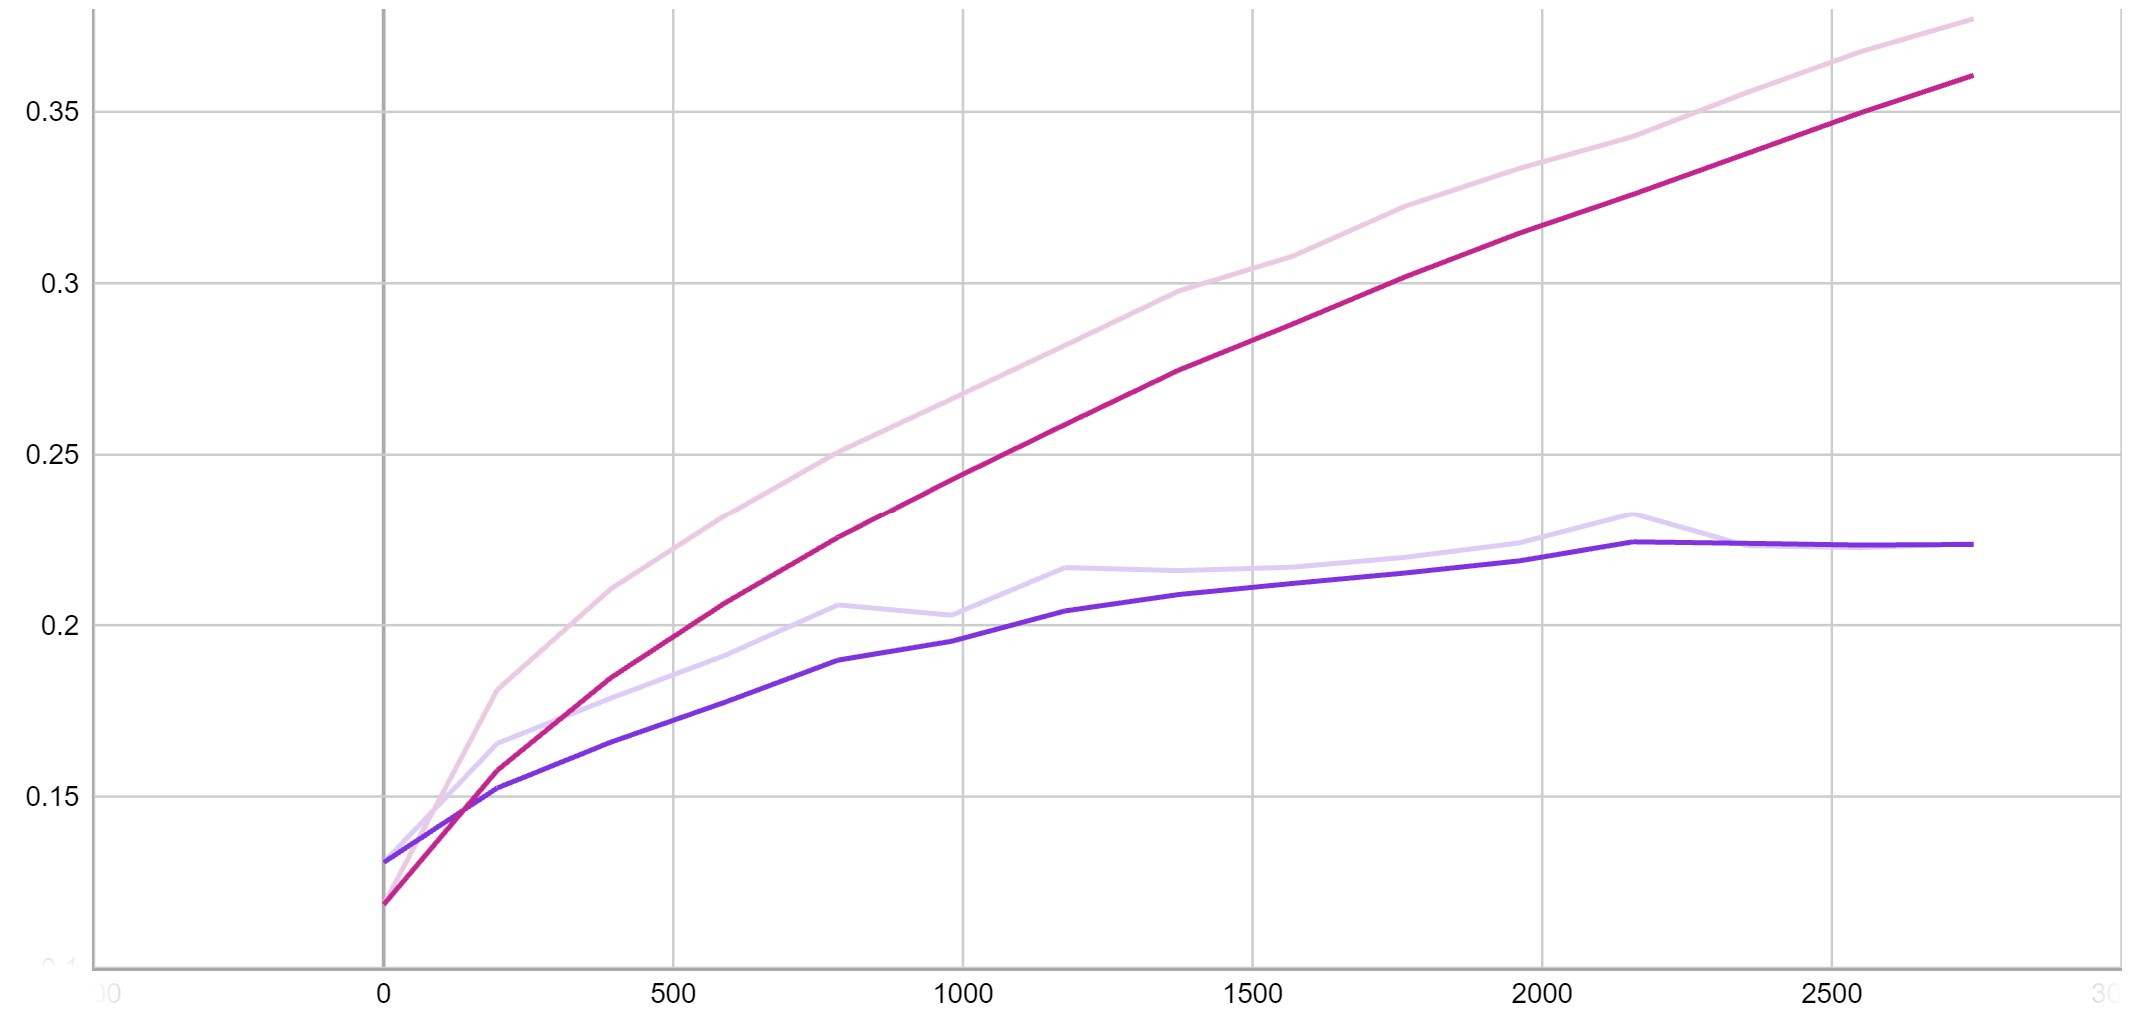
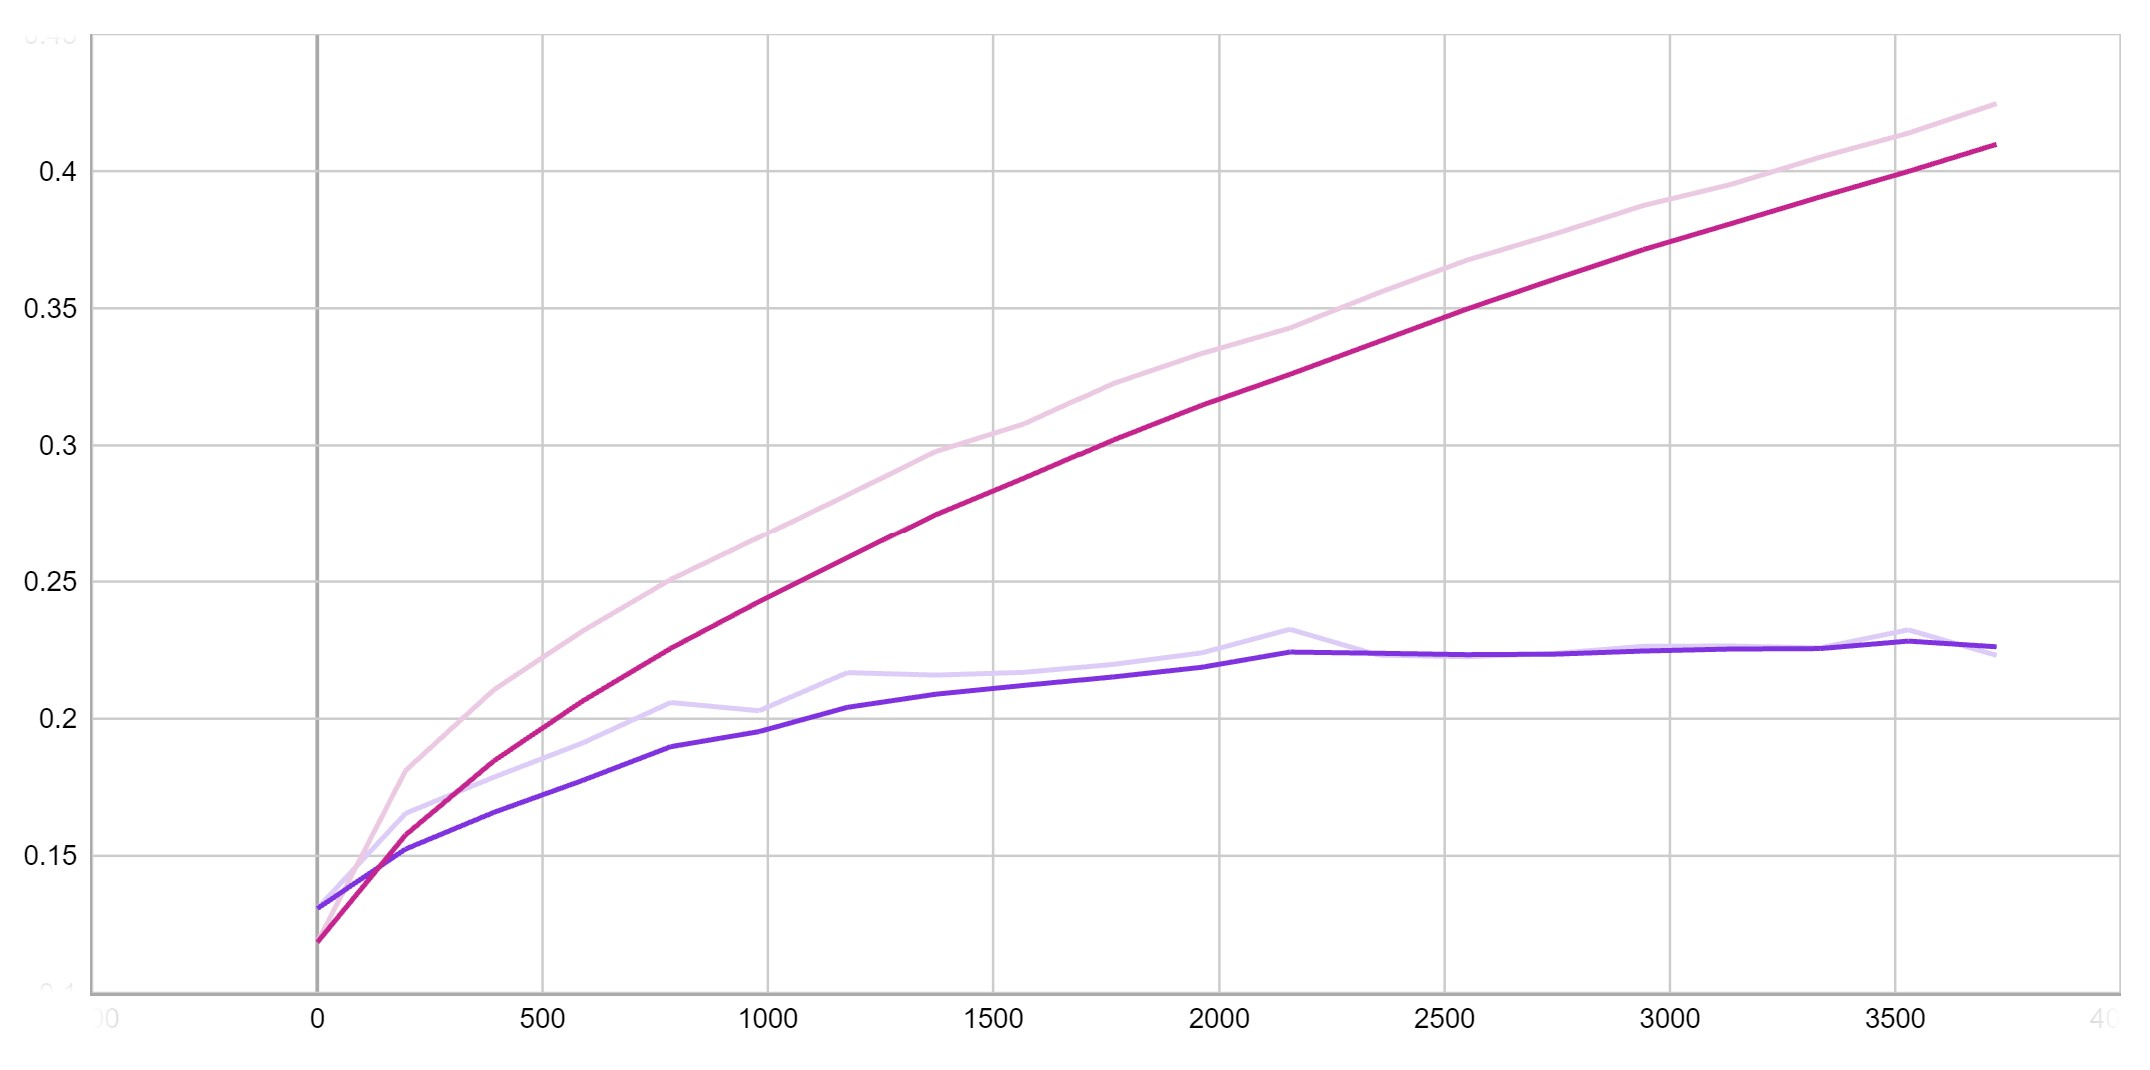
hw2 report

diff --git a/Hw2/hw2_report.md b/Hw2/hw2_report.md
@@ -28,3 +28,24 @@
 ![](result/step1_2_loss.jpg)
 
 ![](result/step1_2_acc.jpg)
+
+### 256、128宽的双隐层MLP
+调整隐层的数量为两层，模型总共有三层，总参数量为832484，经过20轮迭代后，测试集上最佳准确率为24.240%，训练集和验证集上的损失和准确率曲线如下图所示。
+
+![](result/step1_3_loss.jpg)
+
+![](result/step1_3_acc.jpg)
+
+
+### 512、256宽的双隐层MLP
+调整双隐层的宽度为512、256，模型总共有三层，总参数量为1730404，经过20轮迭代后，测试集上最佳准确率为24.620%，训练集和验证集上的损失和准确率曲线如下图所示。
+
+![](result/step1_4_loss.jpg)
+
+![](result/step1_4_acc.jpg)
+
+### 对比分析
+通过调整隐层的数量和宽度并计算模型总参数量，观察到同层数的模型随着宽度增加，准确率有所上升；层数越多，准确率越高。总的来说，即总参数量越大，模型准确率越高。
+
+整体来说，使用MLP训练CIFAR-100数据集准确率并不高，且训练集与测试集上准确率差异较大，模型泛化能力较差。注意到，随着迭代轮数的增加，测试集上的准确率不升反降，说明模型可能出现过拟合的情况。
+
